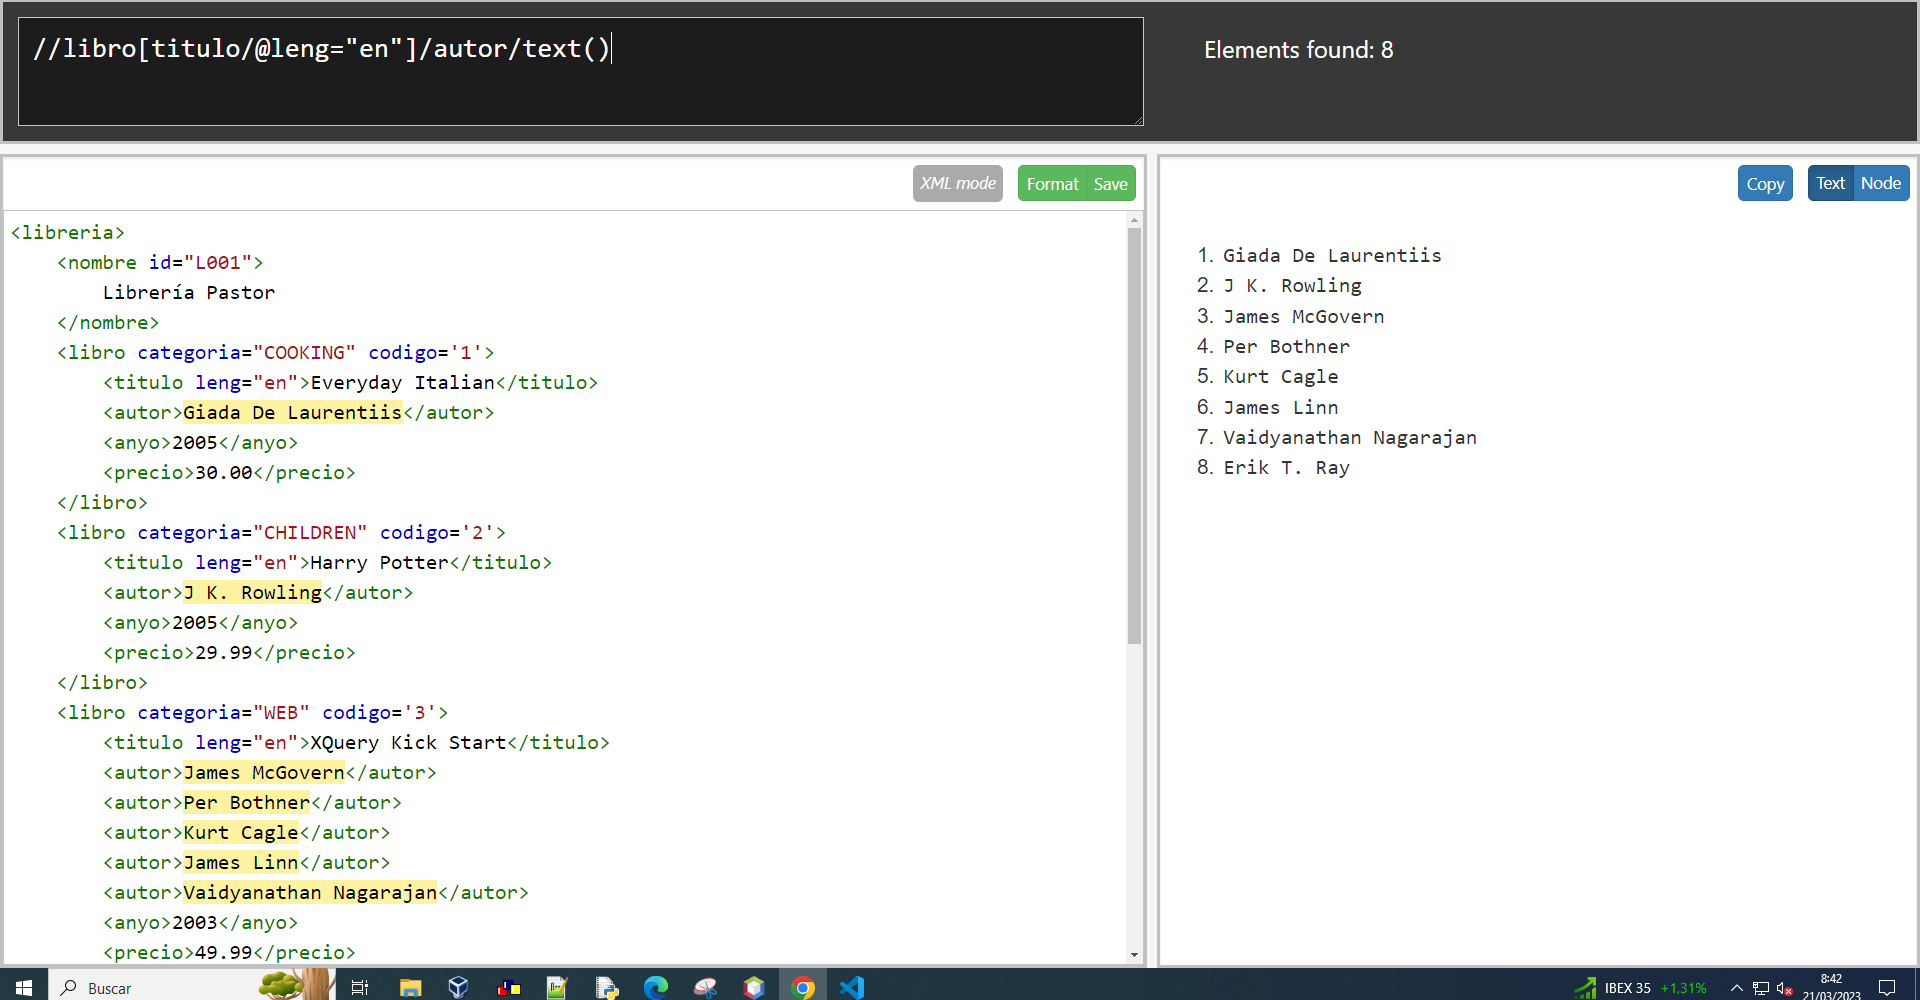
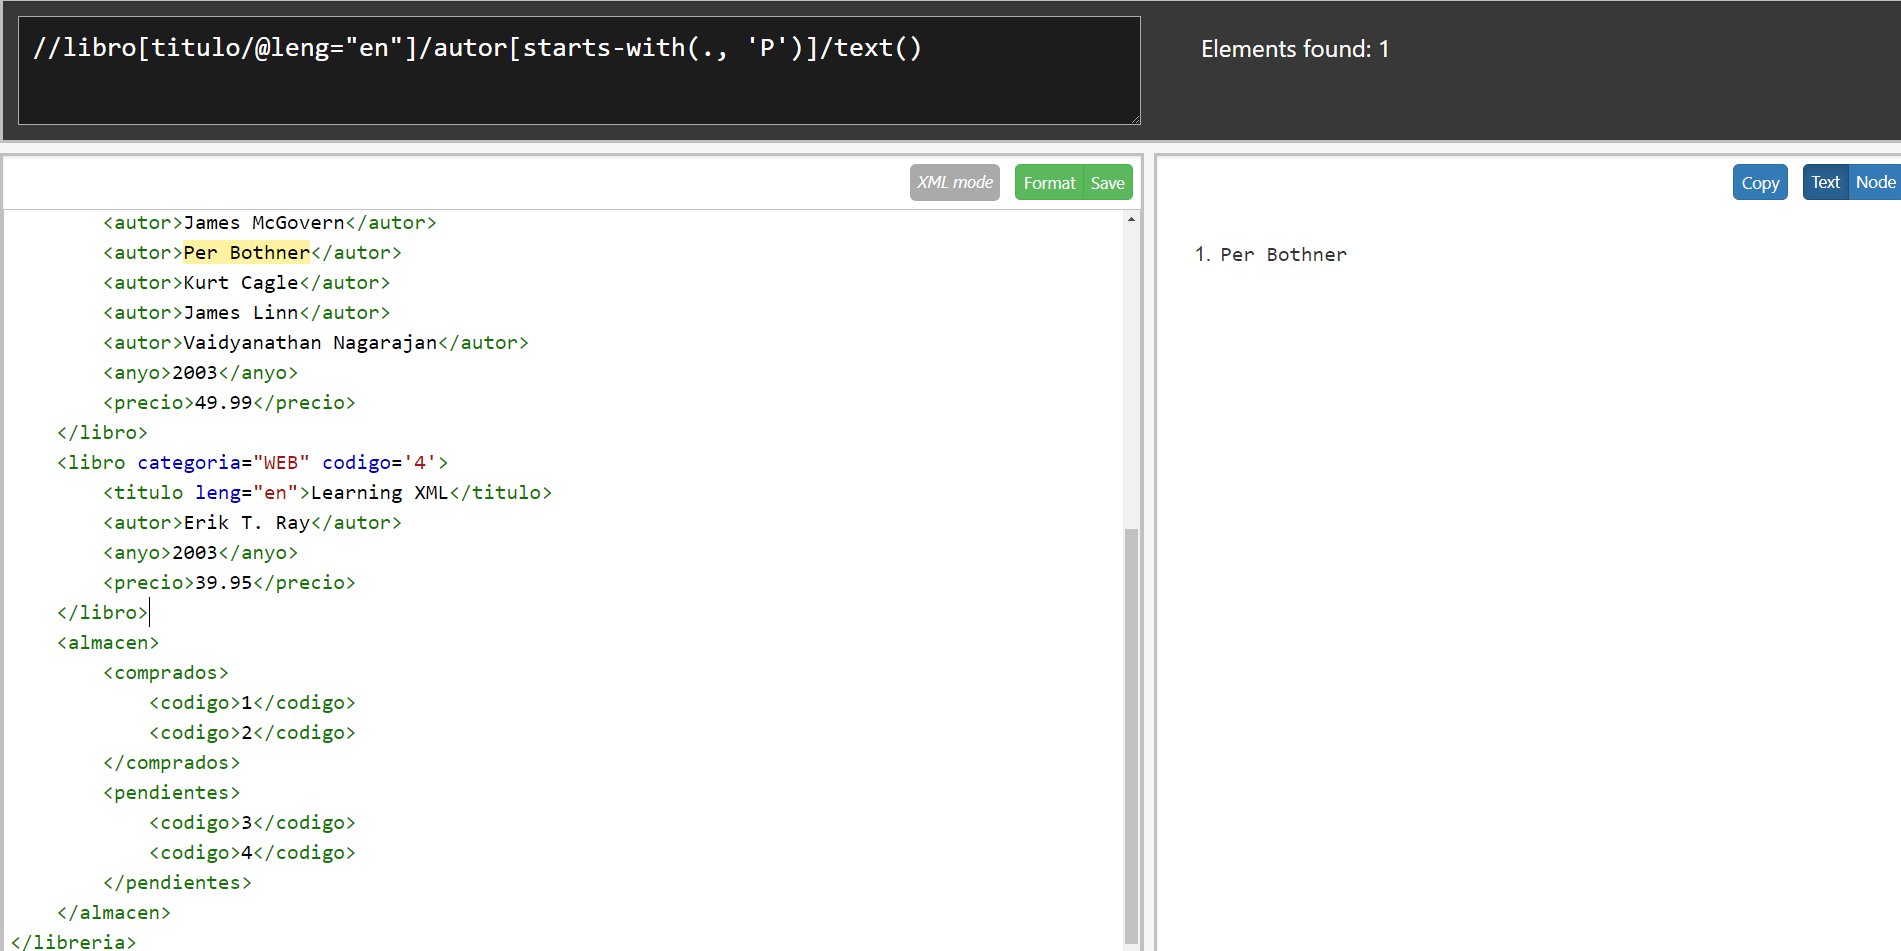
Commit 13/3/2023

Changed region(s): [[0.0, 0.0, 1.0, 1.0], [0.0, 0.0305, 0.3724, 0.061], [0.4035, 0.0305, 0.4966, 0.061]]

diff --git a/portfolio/2223_lmsgi_AlexAS/examen/03/04.html b/portfolio/2223_lmsgi_AlexAS/examen/03/04.html
@@ -1,0 +1,73 @@
+<html>
+    <head>
+        <meta charset="UTF-8">
+		<title>Ejercicio 4</title>
+        <style>
+			h1{
+                text-align: center;
+            }
+            legend{
+                background-color: grey;
+                color: white;
+            }
+            div {
+				text-align: center;
+                
+			}
+            fieldset{
+                margin-left: 40%;
+                width: 20%;
+            }
+		</style>
+    </head>
+    <body>
+        <header>
+            <h1>Formulario</h1>
+        </header>
+        <main>
+            <form method="get" action="alta.php" id="form">
+                <fieldset>
+                    <legend>Datos Fiscales</legend>
+                    <div>
+                        <label for="idenparo"><input checked type="radio" name="opciondfiscales" id="idenparo" value="paro">En paro</label>
+                    </div>
+
+                    <div>
+                        <label for="idautonomo"><input checked type="radio" name="opciondfiscales" id="idautonomo" value="autonomo">Autonomo</label>
+                    </div>
+
+                    <div>
+                        <label for="idajena"><input checked type="radio" name="opciondfiscales" id="idajena" value="ajena">Cuenta ajena</label>
+                    </div>
+                </fieldset>
+                <fieldset>
+                    <legend>Datos Personales</legend>
+                    <div>
+                        <label for="idnombre">Nombre:</label>
+                        <input type="text" id="idnombre" name="nombre" placeholder="Amor">
+                    </div>
+
+                    <div>
+                        <label for="idapellido">Apellido:</label>
+                        <input type="text" id="idapellido" name="apellido" placeholder="Sanchez">
+                    </div>
+                        <label for="idsueldo">Sueldo:</label>
+                        <select id="idsueldo">
+                            <option value="Mas de 400">Mas de 400</option>
+                            <option value="Menos de 400">Menos de 400</option>
+                            <option value="Variable">Variable</option>
+                        </select>
+                    <div>
+                       <label for="idenfermedad">Enfermedad profesional</label> 
+                       <input type="checkbox" id="idenfermedad">
+                       <label for="idpadres">Padres a cargo</label>
+                       <input type="checkbox" id="idpadres">
+                       <label for="idhijos">Hijos a cargo</label>
+                       <input type="checkbox" id="idhijos">
+                    </div>
+                    <input type="submit" value="Enviar">
+                </fieldset>
+            </form>
+        </main>
+    </body>
+</html>

diff --git a/portfolio/2223_lmsgi_AlexAS/index.html b/portfolio/2223_lmsgi_AlexAS/index.html
@@ -2,12 +2,12 @@
 <html lang="es">
         <head>
 		<meta charset="UTF-8">
-		<link rel="stylesheet" href="webroot/css/index.css" type="text/css">
-                <link rel="shortcut icon" type="image/ico" href="../2223_lmsgi_AlexAS/webroot/media/images/ud2/05/favicon.ico">
-		<title>Alex Asensio Sánchez</title>
+		<link rel="stylesheet" href="webroot/css/index/index.css" type="text/css">
+		<title>Indice</title>
 	</head>
 <body>   
-        <h1>Lenguaje de Marcas y Sistemas de Informacion</h1>
+        <h1>INDICE</h1>
+        <div>
     <h2>Unidad 2</h2>    
     <ul>
                 <li><a href="ud2/01/index.html">Section/Article</a></li>
@@ -23,7 +23,9 @@
                 <li><a href="ud2/11/index.html">Css en tablas</a></li>
                 <li><a href="ud2/12/index.html">Posicionamiento absoluto</a></li>
         </ul>
+        </div>
 
+        <div>
     <h2>Unidad 3</h2>
         <ul>
                 <li><a type="application/xml+rss" href="ud3/01.xml">Actividad 1 El Pais</a></li>
@@ -31,18 +33,23 @@
                 <li><a type="opml" href="ud3/03.opml">Actividad 3 OPML</a></li>
                 <li><a type="pdf" href="ud3/04.pdf">Documentar distintos lectores de RSS</a></li>
         </ul>
+        </div>
 
-     <h3>Examen 2</h3>
-        <ul>
-                <li><a href="ud2/08/index.html">E1-1</a></li>
-                <li><a href="ud2/09/index.html">E1-2</a></li>
-                <li><a href="ud2/10/index.html">E1-3</a></li>
-                <li><a href="ud2/11/index.html">E1-4</a></li>
-                <li><a href="ud2/12/index.html">E1-5</a></li>
-                <li><a href="ud3/02.xml">Ejercicio 2</a></li>
-                <li><a href="examen/EX02_2023_AlexAsensioSanchez/paises.dtd">Ejercicio 3(dtd)</a></li>
-                <li><a href="examen/EX02_2023_AlexAsensioSanchez/paises.xsd">Ejercicio 3(xsd)</a></li>
-                <li><a href="examen/EX02_2023_AlexAsensioSanchez/tiempo.xml">Ejercicio 4</li>
-        </ul>
+        <div>
+                <h2>Examen 2 trimestre 2</h2>
+                <ul>
+                        <li><a href="examen/03/01.xsd">Ejercicio 1</a></li>
+                        <li><a href="examen/03/02.dtd">Ejercicio 2</a></li>
+                        <li><a href="examen/03/03.md">Ejercicio 3</a></li>
+                        <li><a href="examen/03/examen03.pdf">PDF del examen</a></li>
+                        
+                </ul>
+        </div>
 
+
+        
+        <footer>
+                <div>2022-2023 Todos los derechos reservados. Alex Asensio Sanchez</div>
+        </footer>
 </body>
+</html>

diff --git a/portfolio/2223_lmsgi_AlexAS/webroot/css/index/index.css b/portfolio/2223_lmsgi_AlexAS/webroot/css/index/index.css
@@ -1,12 +1,41 @@
 body{
-    background-color: aquamarine;
-    text-align: center;   
+    background-color:aquamarine;
+    font-style: oblique;
+   
+    
 }
-a{
-     text-decoration: none;
-     list-style: none;
-     color: black;
+h1{
+    text-align: center;
+    font-size: 400%;
+}
+
+h2{
+    text-align: center;
+    margin-left: 45%;
+    background-color: lightgreen;
+    border: 3px solid red;
+    width: 10%;
+    clear: both;
+    font-size: 200%
+}
+
+ul{
+    margin-left: 45%;
+    list-style: none;
 }
 li{
-    list-style: none;
+    font-size: 120%;
+}
+a{
+    
+    text-decoration: none;
+    outline: none;
+    color: black;
+}
+
+footer{
+    background-color: wheat;
+	position: fixed;
+    margin-left: 38%;
+    font-size: 120%;
 }

diff --git a/portfolio/2223_lmsgi_AlexAS/examen/03/03.md b/portfolio/2223_lmsgi_AlexAS/examen/03/03.md
@@ -1,6 +1,12 @@
 1-
+`//libro[titulo/@leng="en"]/autor[starts-with(., 'P')]/text()`
 ![](capturas03/1.PNG)
 2-
+`//libro[@codigo=//comprados/codigo]/titulo`
 ![](capturas03/2.PNG)
 3-
+`//libro[precio>//[last()]/precio]/titulo/text()`
 ![](capturas03/3.PNG)
+4-
+`//libro[count(./autor)>1]/titulo/text()`
+![](capturas03/4.PNG)
